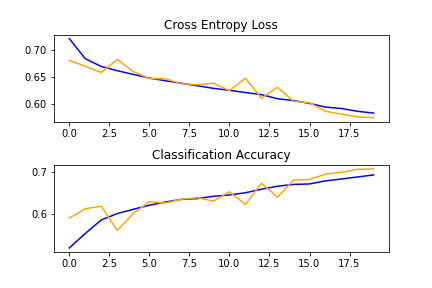
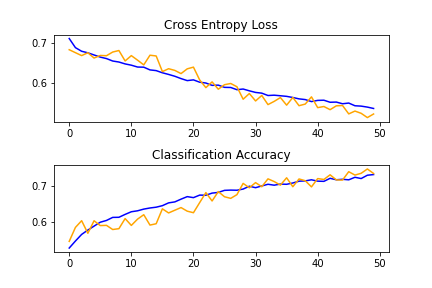
added the VGG16 model using transfer learning

diff --git a/model_tests.py b/model_tests.py
@@ -13,17 +13,17 @@ def run_model(model, IMG_SIZE, model_name):
     model = model
 
     # create data generator
-    train_data_generator = ImageDataGenerator(rescale=1.0/255.0, width_shift_range=0.1, height_shift_range=0.1, horizontal_flip=True)
-    test_data_generator = ImageDataGenerator(rescale=1.0/255.0)
+    data_generator = ImageDataGenerator(featurewise_center=True)
+    data_generator.mean = [123.68, 116.779, 103.939]
 
     # prepare iterators
-    train_ite = train_data_generator.flow_from_directory('data_cats_vs_dogs/train/',
+    train_ite = data_generator.flow_from_directory('data_cats_vs_dogs/train/',
         class_mode='binary',
         batch_size = 64,
         target_size=(IMG_SIZE, IMG_SIZE)
         )
 
-    validation_ite = test_data_generator.flow_from_directory('data_cats_vs_dogs/validation/',
+    validation_ite = data_generator.flow_from_directory('data_cats_vs_dogs/validation/',
         class_mode='binary',
         batch_size= 64,
         target_size=(IMG_SIZE, IMG_SIZE)
@@ -34,7 +34,7 @@ def run_model(model, IMG_SIZE, model_name):
         steps_per_epoch=len(train_ite),
         validation_data=validation_ite,
         validation_steps=len(validation_ite),
-        epochs=20,
+        epochs=10,
         verbose=1
         )
 

diff --git a/models.py b/models.py
@@ -5,6 +5,8 @@ from keras.layers import Dense
 from keras.layers import Flatten
 from keras.layers import Dropout
 from keras.optimizers import SGD
+from keras.applications.vgg16 import VGG16
+from keras.models import Model
 
 
 
@@ -72,3 +74,20 @@ def VGG3_withDropout_model():
     opt = SGD(lr=0.001, momentum=0.9)
     model.compile(optimizer=opt, loss='binary_crossentropy', metrics=['accuracy'])
     return model
+
+def VGG16_model():
+	# load model
+	model = VGG16(include_top=False, input_shape=(224, 224, 3))
+	# mark loaded layers as not trainable
+	for layer in model.layers:
+		layer.trainable = False
+	# add new classifier layers
+	flat1 = Flatten()(model.layers[-1].output)
+	class1 = Dense(128, activation='relu', kernel_initializer='he_uniform')(flat1)
+	output = Dense(1, activation='sigmoid')(class1)
+	# define new model
+	model = Model(inputs=model.inputs, outputs=output)
+	# compile model
+	opt = SGD(lr=0.001, momentum=0.9)
+	model.compile(optimizer=opt, loss='binary_crossentropy', metrics=['accuracy'])
+	return model
